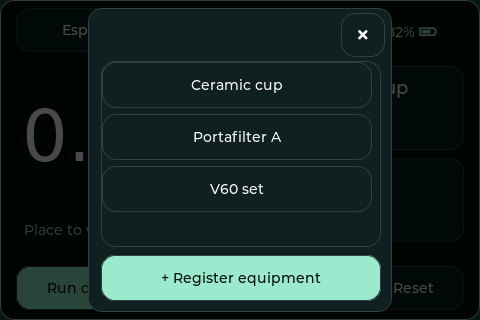
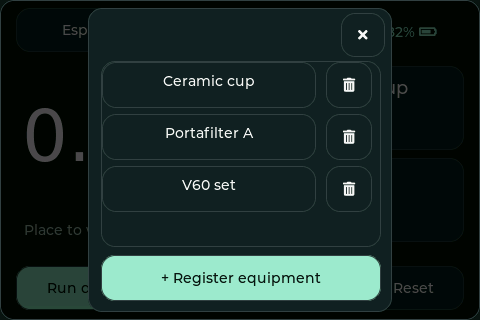
Add held dose adjustment and confirmed equipment removal

diff --git a/README.md b/README.md
@@ -46,14 +46,14 @@ For the interactive desktop simulator, install SDL2 development files (`brew ins
 ## Try the screens
 
 1. Boot into the known-cup fixture: 142.6 g cup, automatic tare, measured 18.2 g dose.
-2. Touch the **entire object card** to choose equipment or register a new profile. Touch the dose card for the dose editor: 18/20/22 g presets, plus ±1 g and ±0.1 g buttons across 0.1–60.0 g. Dose changes save immediately; close returns to weighing.
+2. Touch the **entire object card** to choose equipment or register a new profile. Touch the dose card for the dose editor: 18/20/22 g presets, plus ±1 g and ±0.1 g buttons across 0.1–60.0 g. Hold an adjustment button to repeat after 400 ms, every 100 ms until release or slide-off. Dose changes save immediately; close returns to weighing.
 3. Tap the mode at the top to switch directly between Espresso and Pour-over. Mode and dose are locked during extraction in this prototype.
 4. Tap **Run demo** to inject simulated liquid. This is a development control; production brewing will be triggered by sensor events. The app switches to extraction when that event arrives, including unknown-object cases.
 5. Use **Scenarios** for known cup, unknown baseline, the portafilter → beans → removal → cup sequence, or V60 bloom/pours. The sequence starts after Run demo. A pour-over pause does not end the brew.
 6. **Finish** opens results. Target arrival only alerts; simulated flow continues until Finish. **Next brew** starts an empty session after simulated load removal.
 7. On-screen **Reset**, the board's **BOOT/GPIO0** button, or desktop **R** clears session values and marks an active RAM record aborted. Registered profiles remain until reboot. The board's hardware RESET/EN switch reboots the MCU and cannot execute this application action.
 
-Registration has three steps: type (Container, Portafilter, or Pour-over set), simulated stable empty weight, and a 20-icon picker with distinct coffee, nature, sky, and personal symbols. Names are generated as the equipment type plus the selected icon; no keyboard is shown. Tap the stability badge to test the unstable state; Continue is disabled until stable. The list holds eight profiles, including fixtures. Optional recipe defaults and editable measurement configurations are deferred.
+Registration has three steps: type (Container, Portafilter, or Pour-over set), simulated stable empty weight, and a 20-icon picker with distinct coffee, nature, sky, and personal symbols. Names are generated as the equipment type plus the selected icon; no keyboard is shown. Tap the stability badge to test the unstable state; Continue is disabled until stable. The list holds eight profiles, including fixtures. Tap a row’s trash button and confirm Remove to delete a profile. Current matching selections are cleared without taring; saved brew records are retained. Removal is disabled during brewing and results. Optional recipe defaults and editable measurement configurations are deferred.
 
 ## Implementation
 

diff --git a/docs/architecture.md b/docs/architecture.md
@@ -57,7 +57,7 @@ Recipe assumptions are 1:2 for espresso and 1:15 for a whole pour-over set. They
 | BREW-01 | Transitions on first dummy liquid event; physical detection ≤2 s remains a hardware acceptance test |
 | BREW-02–06, END-01 | Weight/time/flow, timestamped graph and current point, target line, excess indication, pauses, manual finish, result delta and RAM save status |
 | RESET-01–03 | BOOT and UI Reset, aborted RAM record, clears session, remove-load gate; MCU reset is a reboot |
-| EQ-01–05 | Three-step registration, stable fixture weight, 20-icon picker and type-plus-icon names, immutable record copies; editable configurations/defaults/deletion deferred |
+| EQ-01–05 | Three-step registration, stable fixture weight, 20-icon picker and type-plus-icon names, immutable record copies; confirmed profile removal; editable configurations/defaults deferred |
 | NFR-01 | Runtime is offline; persistent local records and deduplicated sync deferred |
 | NFR-02/03 | 480×320 actual LVGL rendering, text plus color, shared time/measurement state; physical readability and power-loss recovery unverified |
 | NFR-04 | No network stack is started and no cloud credentials/API are present |
@@ -86,3 +86,7 @@ Recipe assumptions are 1:2 for espresso and 1:15 for a whole pour-over set. They
 Introduce a load-cell source that emits timestamped placement, stability, removal, dose, and liquid events. Keep a pre-detection buffer and qualify start detection against measured minimum flow/vibration conditions. Replace RAM records with a versioned NVS/filesystem repository and atomic writes before adding offline synchronization. Clarify automatic combination learning, unknown-object tare, equipment configuration editing, dose edit policy, and language/localization before treating prototype assumptions as production requirements.
 
 No API is exposed by this firmware. A future BLE/cloud adapter should dispatch validated commands into the same serialized controller boundary, with pairing/authorization and idempotent record synchronization defined separately.
+
+Equipment deletion addresses stable, monotonically allocated profile IDs rather than row indexes. Compacting the list clears matching current-session selections but leaves archived equipment snapshots, physical-load state, and net weight unchanged. Demo placement resolves by equipment kind; missing kinds remain without a known baseline instead of falling through to another list entry.
+
+Dose adjustments use LVGL short-click, long-press, and repeat events. There is no repeat timer outside input handling. Press locking is disabled on these buttons, and pending redraws/non-ready phases reject further adjustments.

diff --git a/docs/validation.md b/docs/validation.md
@@ -32,3 +32,7 @@ On device, compare touch-to-visible latency and energy per dose-selection task a
 The host checks Container type options, stable-weight gating, absence of keyboard/text input, all 20 in-place icon selections, Back navigation, and saving the selected type plus icon. Ready and brewing weight units use a separate smaller label aligned by font baseline. Review screenshots include the three-step registration, the selected icon, and larger dose buttons with no title/footer. Device touch accuracy and battery use remain physical validation tasks.
 
 The icon set uses original vector geometry, pre-rendered at 32 px for the picker and 22 px for names. Host checks require both fonts to contain all 20 identifiers. Portafilter uses private-use U+E004; other icons use Unicode identifiers. Profiles are currently RAM-only, so no persistent-name migration is needed.
+
+## Held adjustment and equipment removal
+
+Host tests cover repeated fine adjustment, no extra increment on release, stopping after release/slide-off/brew start, removal confirmation and cancel, list compaction, removal of all profiles, and registration from the empty state. Controller tests cover phase locks, invalid IDs, monotonic IDs after deletion, preserved readings and archived snapshots, and all demo types with an empty profile list. Repeat defaults are LVGL 8.4's 400 ms hold threshold and 100 ms interval. Check touch release/slide-off behavior on the physical FT6336 device before release.
